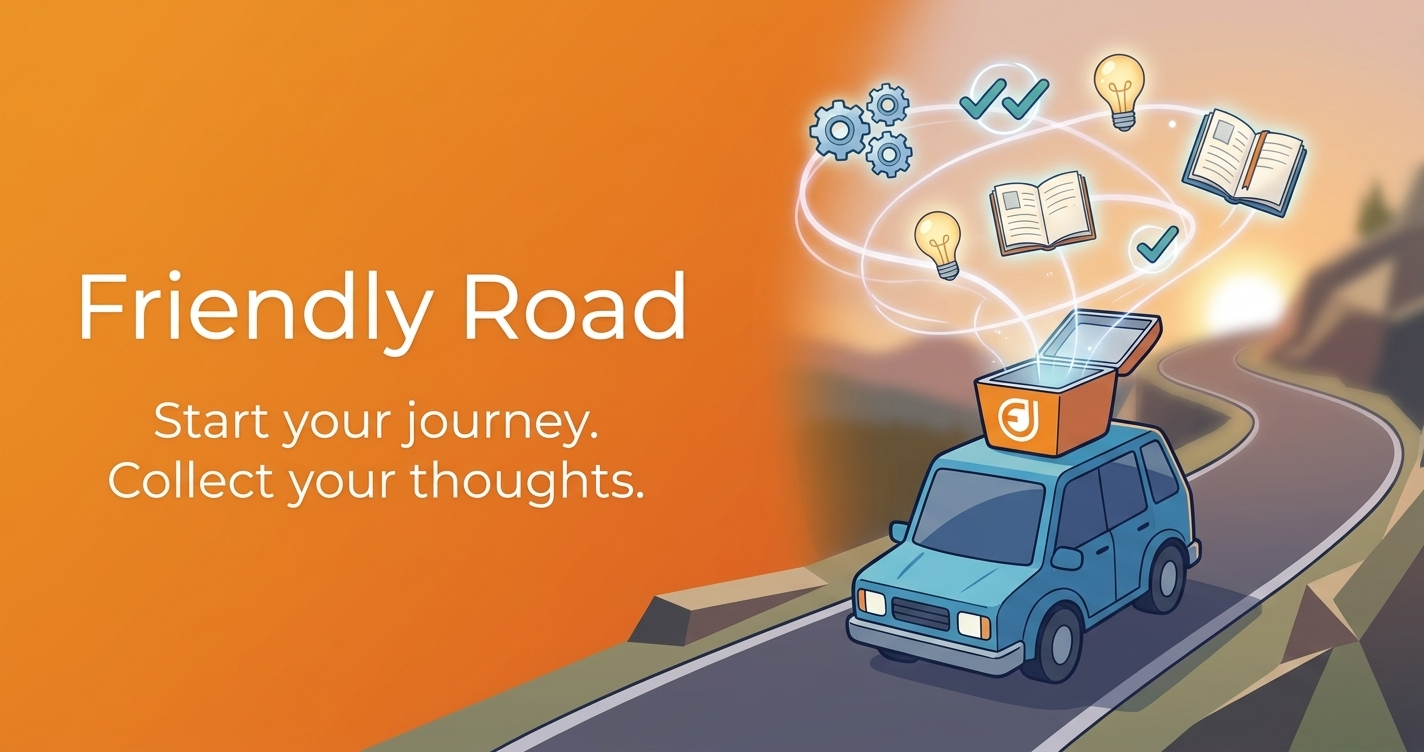
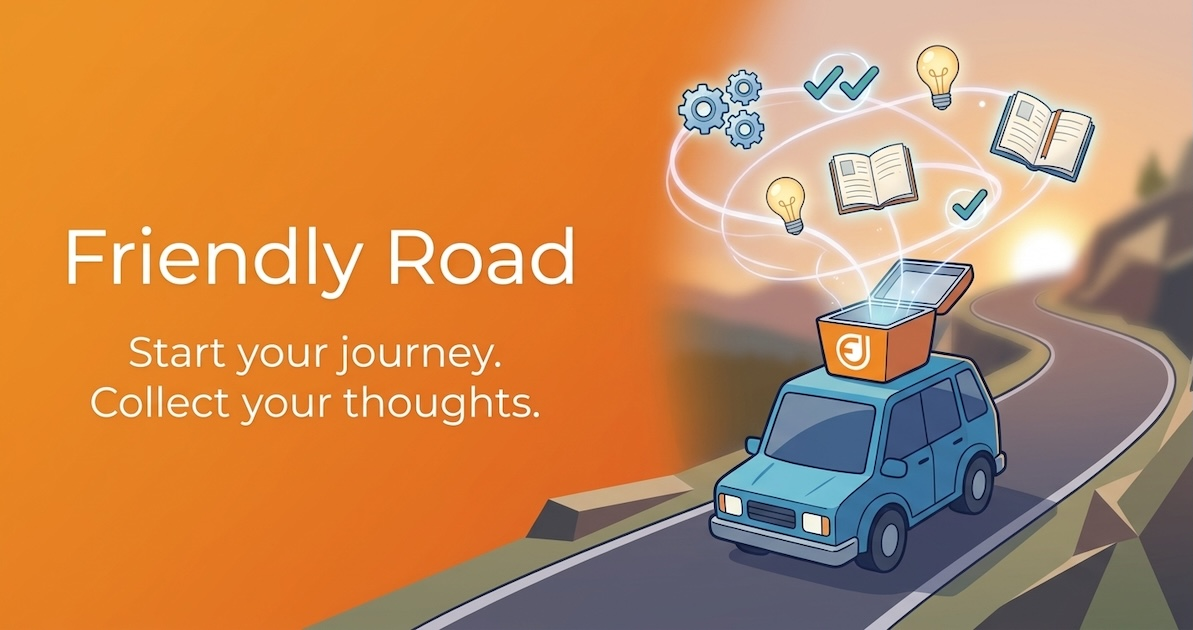
add gem meta-tag and configure controller, view, env/productioin settings

Changed region(s): [[0.6823, 0.4825, 0.7133, 0.5127], [0.5893, 0.7841, 0.6203, 0.8143], [0.5893, 0.1206, 0.6203, 0.1508]]

diff --git a/config/initializers/meta_tags.rb b/config/initializers/meta_tags.rb
@@ -1,0 +1,60 @@
+# frozen_string_literal: true
+
+# Use this setup block to configure all options available in MetaTags.
+MetaTags.configure do |config|
+  # How many characters should the title meta tag have at most. Default is 70.
+  # Set to nil or 0 to remove limits.
+  # config.title_limit = 70
+
+  # When true, site title will be truncated instead of title. Default is false.
+  # config.truncate_site_title_first = false
+
+  # Add HTML attributes to the <title> HTML tag. Default is {}.
+  # config.title_tag_attributes = {}
+
+  # Natural separator when truncating. Default is " " (space character).
+  # Set to nil to disable natural separator.
+  # This also allows you to use a whitespace regular expression (/\s/) or
+  # a Unicode space (/\p{Space}/).
+  # config.truncate_on_natural_separator = " "
+
+  # When true, arrays passed to `title` and `keywords` stop at item
+  # boundaries instead of partially truncating the overflowing item.
+  # Single-item arrays are still truncated normally. Default is false.
+  # config.truncate_array_items_at_boundaries = false
+
+  # Maximum length of the page description. Default is 300.
+  # Set to nil or 0 to remove limits.
+  # config.description_limit = 300
+
+  # Legacy compatibility: maximum length of the keywords meta tag.
+  # Most search engines ignore this tag. Default is 255.
+  # config.keywords_limit = 255
+
+  # Legacy compatibility: default separator for the keywords meta tag
+  # when an Array is passed. Default is ", ".
+  # config.keywords_separator = ', '
+
+  # Legacy compatibility: when true, keywords will be converted to lowercase.
+  # Otherwise they will appear on the page as is. Default is true.
+  # config.keywords_lowercase = true
+
+  # When true, the output will not include new line characters between meta tags.
+  # Default is false.
+  # config.minify_output = false
+
+  # When true, Symbols inside nested meta tag arrays resolve as references to
+  # normalized top-level tags. Default is false until MetaTags 3.0, when this
+  # behavior will become the default.
+  # config.resolve_symbolic_references_in_arrays = false
+
+  # When false, generated meta tags will be self-closing (<meta ... />) instead
+  # of open (`<meta ...>`). Default is true.
+  # config.open_meta_tags = true
+
+  # List of additional meta tags that should use "property" attribute instead
+  # of "name" attribute in <meta> tags.
+  # config.property_tags.push(
+  #   'x-hearthstone:deck',
+  # )
+end

diff --git a/app/controllers/application_controller.rb b/app/controllers/application_controller.rb
@@ -1,7 +1,35 @@
 class ApplicationController < ActionController::Base
+  before_action :prepare_meta_tags
   # Only allow modern browsers supporting webp images, web push, badges, import maps, CSS nesting, and CSS :has.
   allow_browser versions: :modern
 
   # Changes to the importmap will invalidate the etag for HTML responses
   stale_when_importmap_changes
+private
+
+  def prepare_meta_tags(options = {})
+    site_name   = "Friendly Road"
+
+    description = options["track what matters"]
+    current_url = request.original_url
+
+    defaults = {
+      site:        site_name,
+      title:       title,
+      reverse:     true,
+      description: description,
+
+      og: {
+        url: current_url,
+        title: title,
+        description: description,
+        type: 'website',
+        image: asset_url('fr_thumb2.jpg')
+         [ width: 1200,
+          height: 630 ]
+    }
+
+    set_meta_tags(defaults)
+  end
+
 end

diff --git a/config/environments/production.rb b/config/environments/production.rb
@@ -58,7 +58,7 @@ Rails.application.configure do
   # config.action_mailer.raise_delivery_errors = false
 
   # Set host to be used by links generated in mailer templates.
-  config.action_mailer.default_url_options = { host: "example.com" }
+  config.action_mailer.default_url_options = { host: "friendlyroad.com" }
 
   # Specify outgoing SMTP server. Remember to add smtp/* credentials via bin/rails credentials:edit.
   # config.action_mailer.smtp_settings = {
